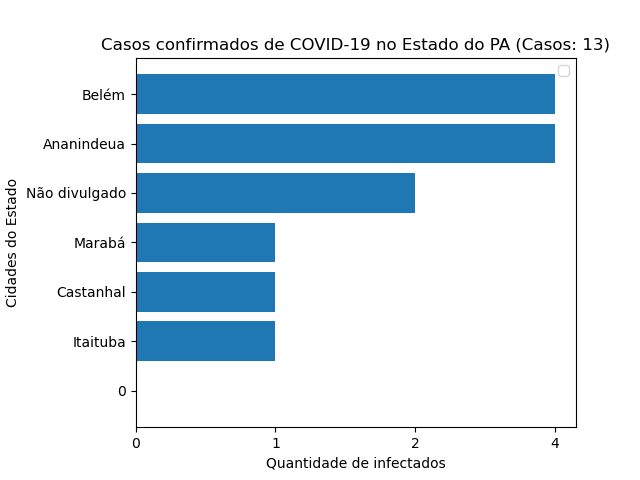
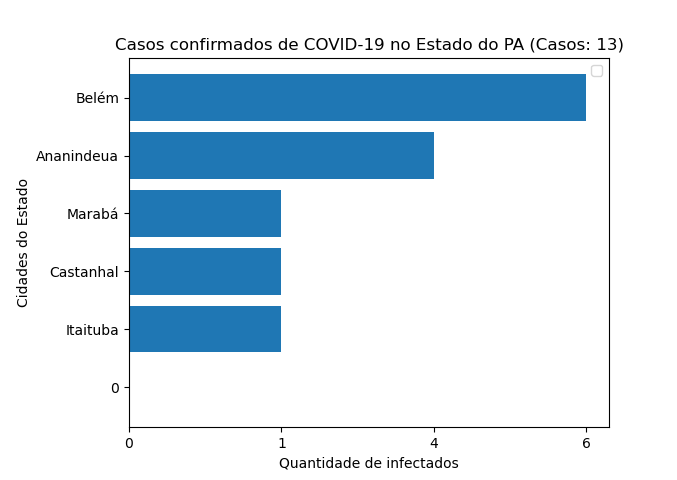
Atualização dos dados

Changed region(s): [[0.0, 0.0625, 0.9375, 0.9375], [0.4062, 0.9062, 0.6875, 1.0], [0.8438, 0.9062, 0.875, 0.9375]]

diff --git a/Grafico_de_Barras.py b/Grafico_de_Barras.py
@@ -1,20 +1,22 @@
 ##Grafico de barras
 import matplotlib.pyplot as plt
 
-##VAlores
-cidades = ['0','Itaituba','Castanhal','Marabá','Não divulgado','Ananindeua','Belém']
+##Valores
+cidades = ['0','Itaituba','Castanhal','Marabá','Ananindeua','Belém']
+casos = ['0','1','1','1','4','6']
 
-casos = ['0','1','1','1','2','4','4']
 
+##Legendar o grafico
 titulo = "Casos confirmados de COVID-19 no Estado do PA (Casos: 13)"
 cidadesx = "Quantidade de infectados"
 casosy = "Cidades do Estado"
 
+##Operações
 plt.title(titulo)
 plt.xlabel(cidadesx)
 plt.ylabel(casosy)
 
 plt.barh(cidades,casos)
 plt.legend()
-plt.savefig("Grafico de Barras COVID-19")
+plt.savefig("Grafico_de_Barras")
 plt.show()
